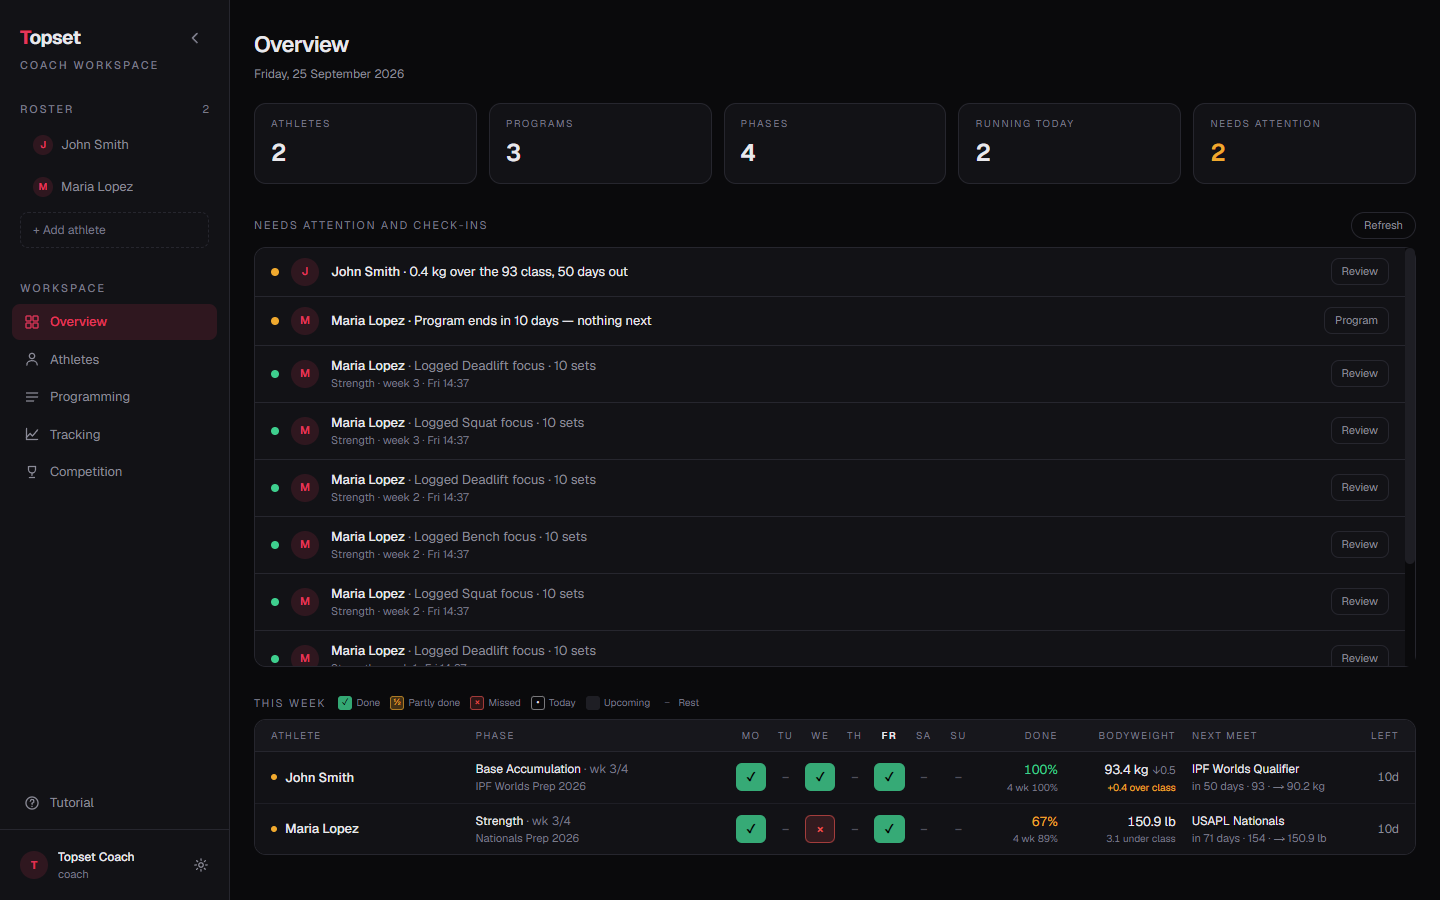
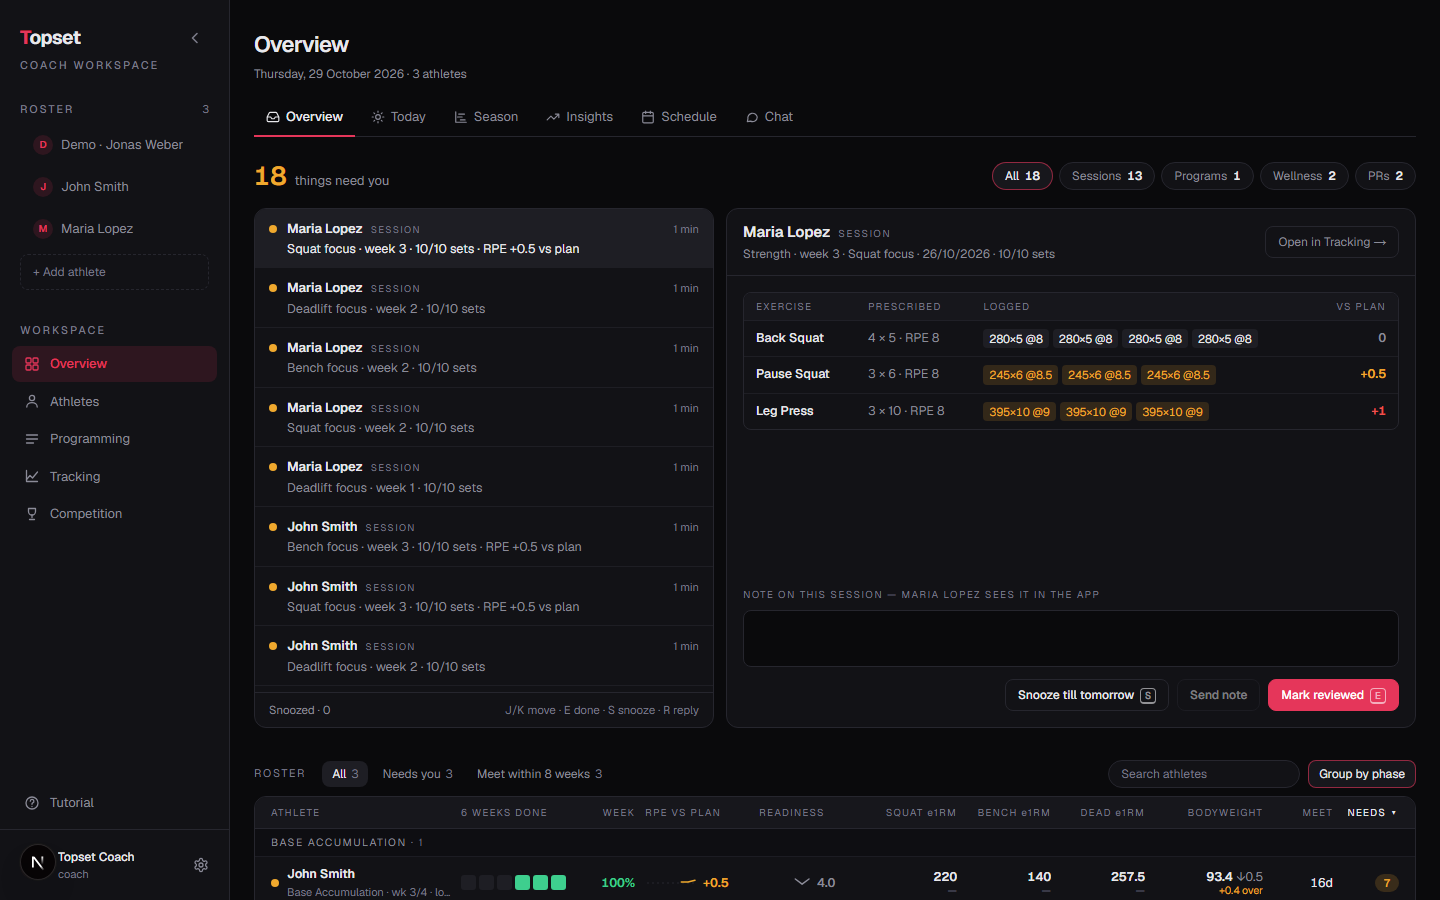
README: new Overview screenshot

diff --git a/README.md b/README.md
@@ -39,7 +39,7 @@ An inbox of everything waiting on you, across every athlete, urgent first: sessi
 
 Under it, the whole roster in one table: six weeks of sets done, RPE against plan, readiness, squat/bench/deadlift e1RM with its trend, bodyweight against the meet class and the meet countdown. **Today** shows who is training now and who is up next, **Season** the next 16 weeks of phases and meets, and **Insights** this week against the last, with suggestions like raising a max.
 
-![Overview: warnings and check-ins above a week table for the whole roster](docs/screenshots/overview.png)
+![Overview: the inbox with a session open beside it, above the roster table](docs/screenshots/overview.png)
 
 ### Athletes
 
